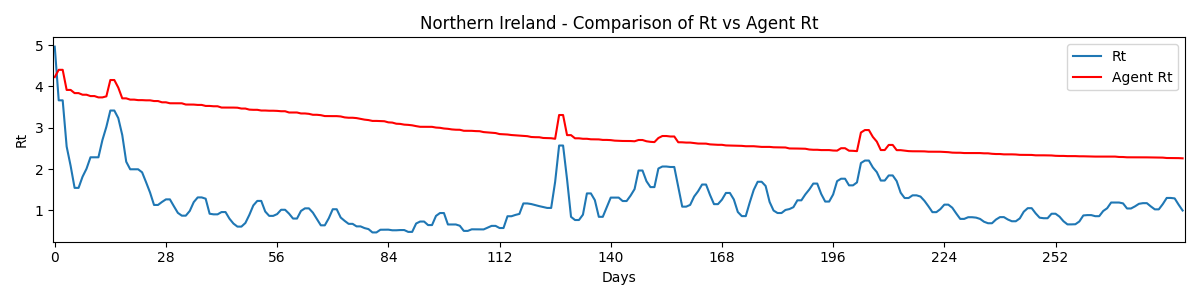
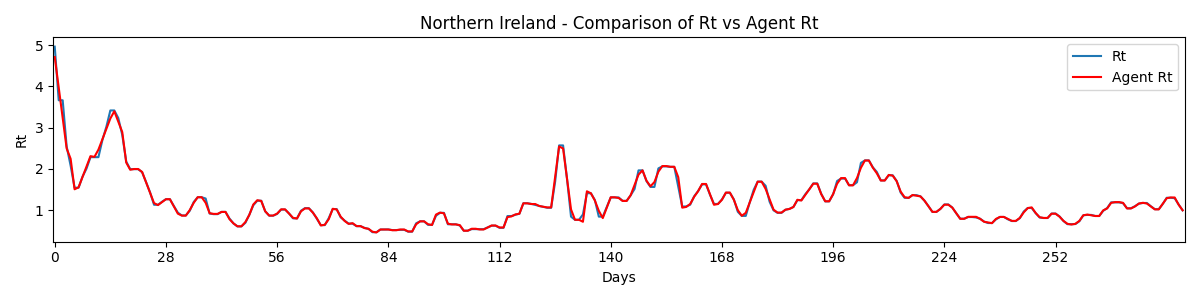
Worked on tree agent
Further tinkering on the code has lead to vastly improved results.

Realised several mistakes that were present.
Some were due to not making adjustments when the code was changed to iterate over all of a region's data, rather than just an initial one as was the case at the time.
Others just remanants of previous ideas that are no longer be pursued.

Changed the names of the variables used to store the nodes due to not being satified with them

diff --git a/code/machine learning/rtPredictor.py b/code/machine learning/rtPredictor.py
@@ -11,7 +11,7 @@ from copy import deepcopy
 
 QUANTILE_NO = 8
 GROUP_SIZE = 3
-MAX_DEPTH = GROUP_SIZE - 1
+MAX_DEPTH = GROUP_SIZE
 
 REGIONS = {
     1 : "East Midlands",
@@ -51,7 +51,6 @@ class Node:
 
         self.currVal = prevRt + action
         self.cumulativeDifference = None
-        self.cost = None
         #Just something to make returning to the currently expanded node easier to find
         #when backtracking up the tree
         self.isExpandedPoint = False
@@ -63,10 +62,8 @@ class Node:
 
         if parent != None:
             self.cumulativeDifference = parent.cumulativeDifference + currDifference
-            self.cost = parent.cost + 1
         else:
             self.cumulativeDifference = currDifference
-            self.cost = 0
 
 
 def readFile(dataset, filePath):
@@ -372,136 +369,58 @@ def treeSearch(regionRt, potentialActions):
     INPUTS:
         :param regionRt: List of floats, the regional data that will be explored by the tree search
         :param potentialActions: List of floats, containing floats to be used to alter the Rt value of the previous point
-        
     
     OUTPUT:
         returns a list of tuples, containing the Rt value and the index for the action that resulted in said Rt value
     """
     agentRtValues = []
-    expandedStates = []
-    leafState = []
 
-    currPoint = 1
-    currDepth = 0
+    #Iterate over the current region's data, using the current point as the root for the search
     for currRootIndex in range(len(regionRt)):
+        toBeExploredNodes = []
+        childNodes = []
+        
         #Set up the inital point that we are finding the action for
-        root = Node(regionRt[currRootIndex], 0, 0, regionRt[currRootIndex])
+        if currRootIndex == 0:
+            root = Node(regionRt[currRootIndex], 0, 0, regionRt[currRootIndex])
+        else:
+            root = Node(regionRt[currRootIndex], 0, 0, currentNode.currVal)            
+
         root.isExpandedPoint = True
 
         #Get child nodes of the root
         for actionIndex in range(len(potentialActions)):
             action = potentialActions[actionIndex]
 
-            expandedStates.append(Node(regionRt[root.cost], action, actionIndex, root.currVal, root))
+            toBeExploredNodes.append(Node(regionRt[currRootIndex], action, actionIndex, root.currVal, root))
         
-        #Explore the child nodes to the max depth
-        while MAX_DEPTH > currDepth or currPoint + currDepth >= len(regionRt):
-            currDepth += 1
-            print("--boop---")
+        currDepth = 1
 
-            while len(expandedStates) > 0:
-                currentNode = expandedStates.pop(0)
-                print(len(expandedStates)," | ", len(leafState))
+        #Explore to max depth or until end of the region
+        while MAX_DEPTH > currDepth and currRootIndex + currDepth <= len(regionRt) - 1:
+            
+            while len(toBeExploredNodes) > 0:
+                currentNode = toBeExploredNodes.pop(0)
                 
                 for actionIndex in range(len(potentialActions)):
                     action = potentialActions[actionIndex]
-                    leafState.append(Node(regionRt[currPoint + currentNode.cost + 1], action, actionIndex, currentNode.currVal, currentNode))
-            #Once all child nodes of the current level have been expanded, swap    
-            expandedStates, leafState = leafState, expandedStates
-            leafState = []
+                    childNodes.append(Node(regionRt[currRootIndex + currDepth], action, actionIndex, currentNode.currVal, currentNode))
+            
+            #Once all explored, prepare childNodes to be explored
+            toBeExploredNodes, childNodes = childNodes, toBeExploredNodes
+            
+            currDepth += 1
 
-        expandedStates.sort(key=getCumulativeDifference)
-        currentNode = expandedStates.pop(0)
+        toBeExploredNodes.sort(key=getCumulativeDifference)
+        currentNode = toBeExploredNodes.pop(0)
 
         while currentNode.parent.isExpandedPoint is False:
             currentNode = currentNode.parent
         
         agentRtValues.append((currentNode.currVal, currentNode.actionIndex))
-    
-    print(agentRtValues)
-    print(currentNode.cumulativeDifference)
-    print(currentNode.currVal)
 
     return agentRtValues
-
-    """
-    1. It needs to iterate over the entire region
     
-    2. While doing so, it needs to use the point prior to the current as the root
-
-    3. Stop expanding nodes when it has fully expanded the max depth from the initial node
-        3.1 Once it reaches this state it needs to only make its decision based upon the nodes at the max depth
-            all other nodes should be removed through the process of expansion, rather than needing to be removed
-            afterwards.
-
-
-    Where each O is a point within the dataset:
-
-    O - O - O - O - O
-    
-    The first point in the dataset is the root, since there is no proceeding point,
-    nothing is done to it.
-    [] - O - O - O - O
-
-    We're looking at finding which move it make from the root to the next point
-    []-> O - O - O - O
-                /\
-        With a depth of 3, we would be expanding ahead to here
-    
-    Expand the node, such that we have a queue of potential action that can be performed on the current state,
-    leading to various levels of how close each will lead to the desired Rt value (the original).
-        0
-      /
-    [] - 0 - O - O - O
-      \  
-        0
-
-    Expand these point and so on, until the max depth is reached
-           0 ...
-          /
-         0 - 0 ...
-        /  \
-       /     0 ...
-      /      0 ...
-     |      /
-    [] -- 0 - 0 ... - O
-     |      \
-      \      0 ...
-       \    0 ...
-        \ /
-         0 - 0 ...   
-          \
-            0 ...
-
-    Once expanded to the max depth, retain only the nodes at the max-depth, all intermediate nodes should be not present, this is due to the end nodes then being sorted,
-    based upon the cumulative difference in the Rt value over the course of the chosen actions to the current node. 
-    
-    Then, the end node that has the least cumulative difference is selected from all the end nodes and proceed to backtrack to the root from the chosen end node to conclude on which action
-    should be taken.
-    
-            
-       -<-0--<--0-
-      /            \
-    []               <-0--<-0
-      
-      /\
-    This action would be selected
-
-    Store the result of this decision making, then proceed to the next point
-        1
-    [] ->- [X] - O - O - O
-    
-    Now, using the result of previous steps, we move the root node one point forward
-        1
-    [] ->- [X] - O - O - O
-
-    Repeat the previous steps until all points within the region have been run through with the agent
-        1       0       2       1
-    [] ->- [0] ->- [0] ->- [0] ->- [0]
-
-    """
-
-
 def runAgent(potentialActionLists, regionRt, agentType="greedy"):
     """
     Given the actions lists that the agent can take for each region, have it try to match
@@ -520,13 +439,12 @@ def runAgent(potentialActionLists, regionRt, agentType="greedy"):
         currActionList = potentialActionLists[currIndex]
         currRegionRt = regionRt[currIndex]
 
-        print(len(currActionList))
         if agentType.lower() == "greedy":
             agentResults = greedyAgent(currRegionRt, currActionList)
         
         elif agentType.lower() == "tree":
             agentResults = treeSearch(currRegionRt, currActionList)
-        print(agentResults)
+
         agentRt = [currRt for currRt, _ in agentResults]
 
         createGraph(currRegionRt, agentRt, currIndex, agentType)
@@ -661,6 +579,7 @@ def main():
     regionalPotentialActionLists = getPotentialActionLists(rtValueChange)
     
     regionalAgentResults = runAgent(regionalPotentialActionLists, regionRt, "tree")
+    regionalAgentResults = runAgent(regionalPotentialActionLists, regionRt)
 
     print("----") 
     """
